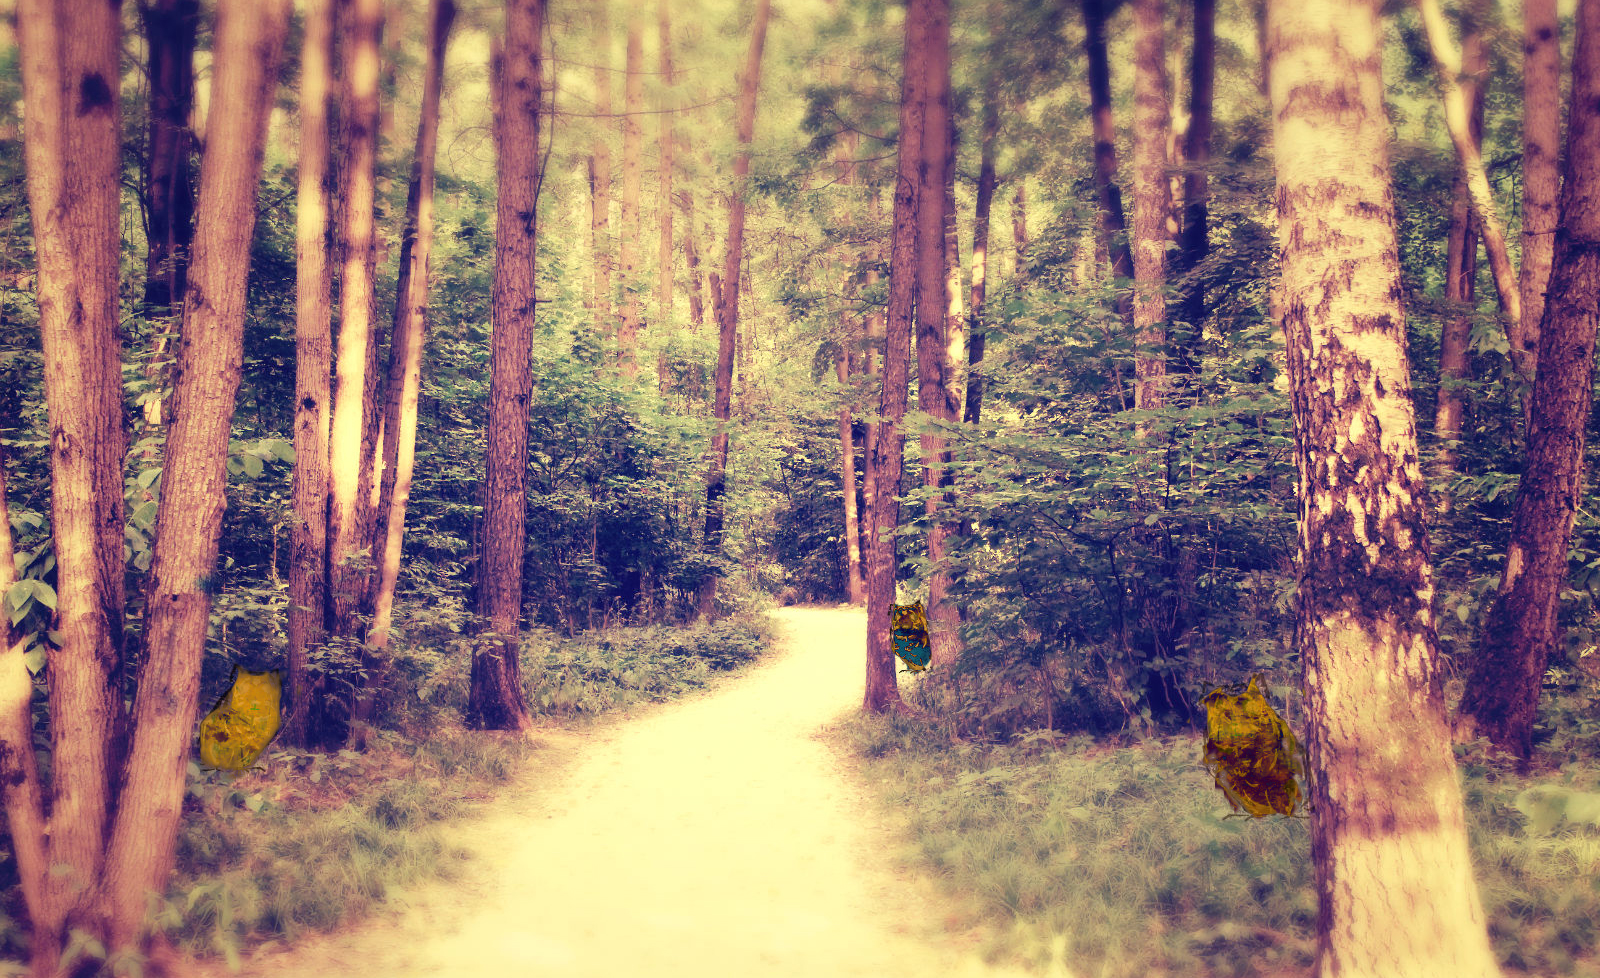
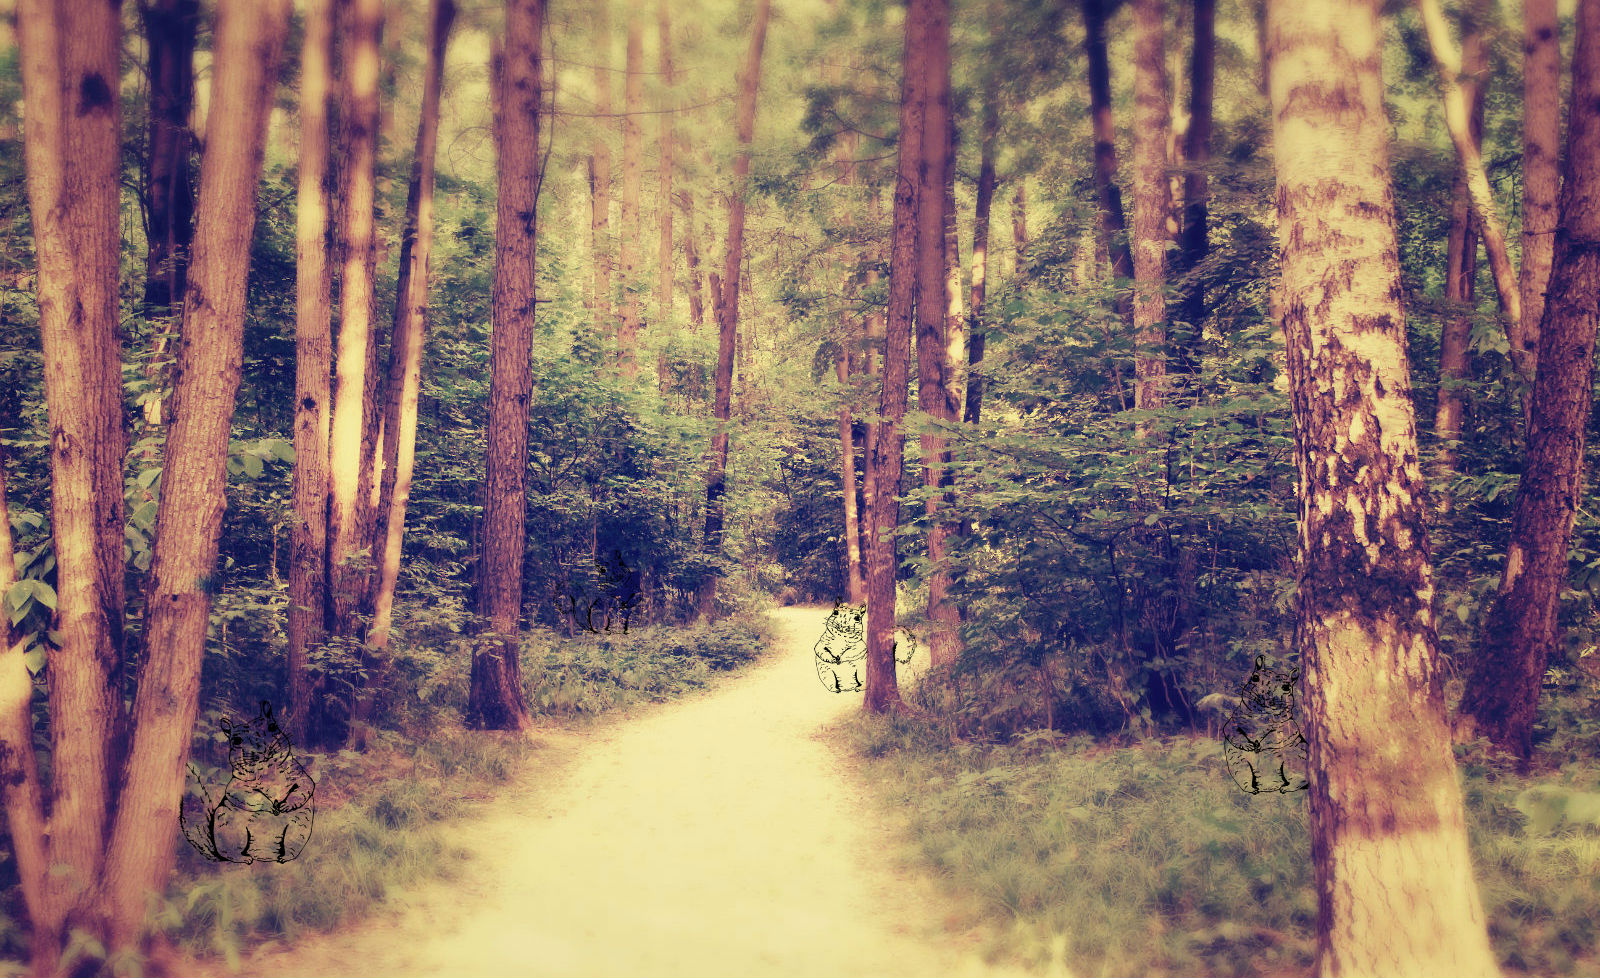
10.08
hire

diff --git a/assets/js/main.js b/assets/js/main.js
@@ -45,20 +45,31 @@ var parameters = {
     },
     circalParametrs:[
         {   
-            MaxShroom:79,
+            MaxShroom:2,
+            MinShroom:2,
             PayForLureSquirrel:20,
-            PayForSquirrel:10
+            PayForSquirrel:10,
+            MushFromSquirrel:0
         },
-        {   Mush:[],
+        {   MaxShroom:79,
+            MinShroom:2,
             MaxShroom:5,
             PayForSquirrel:10
         }
     ],
+    circalCreater:[
+        {   
+            Squirrel:0
+        },
+        {   
+            Squirrel:0
+        },
+    ],
+
     events:{
         eventGather:false,
     }
 }
-
 /*______________________________________________________Настройки параметров___________________________________________________________*/
 var getCircalShrooms = function(circal) {
     $.ajax({
@@ -78,9 +89,10 @@ var basketLength = function(){
     $('#howmany').text(''+length+'');
     return length;
 }
-var mushroomsForClick = function(circMax){
-        var mush = Math.floor(Math.random()*(circMax-2)+2);
-        return mush;
+var mushroomsForClick = function(circMax,circMin){
+        var mush = Math.floor(Math.random()*(circMax-circMin)+circMin);
+        console.log(mush)
+        return mush
     }
 var rand = function(){
     a = Math.random();
@@ -100,7 +112,7 @@ var firstClick = function(){//клик осмотреться
 
         basketLength();
         Gather(circ);
-        getCircalShrooms(circ);
+        //getCircalShrooms(circ);
     });
 }
 
@@ -128,16 +140,19 @@ var showGather = {// визуальное отображение сбора гр
         parameters.interface.forms.progressbar.hide();
         parameters.interface.forms.progressbar.removeAttr('style');
 
-        FillBasket(circ);
+        FillBasket(circ,'gamer');
         if (parameters.events.eventGather === true) TryMush_LureSquirrel(circ);
     }
 }
-var FillBasket = function(circ){
-    var Shroom = mushroomsForClick(parameters.circalParametrs[circ].MaxShroom);
-
+var FillBasket = function(circ,subject){
+    if (subject=='gamer'){
+        var Shroom = mushroomsForClick(parameters.circalParametrs[circ].MaxShroom,parameters.circalParametrs[circ].MinShroom)*parameters.hour;
+        var count = Shroom}
+    if (subject=='squirrel'){
+        var count = parameters.circalParametrs[0].MushFromSquirrel}
     switch (circ){
         case 0: 
-            for(i=0;i<Shroom;i++){
+            for(i=0;i<count;i++){
                 var a = rand();
                 switch (true){
                     case a < 0.5: parameters.basket.mushrooms[0].push(parameters.SetShrooms[circ][0])
@@ -154,12 +169,16 @@ var FillBasket = function(circ){
                 }
             }
         break
+        case 1: 
+            console.log('iuiuououoiu')
+            
+        break
     }
     basketLength();
-    console.log(parameters.basket.mushrooms, parameters.myShrooms)
+    //console.log(parameters.basket.mushrooms, parameters.myShrooms)
 }
 var deleteRandSroom = function(circ,action){
-    var Shroom = Math.floor(Math.random() * basketLength());
+    var Shroom = Math.floor(Math.random() * parameters.basket.mushrooms[circ].length);
     switch (circ){
         case 0:  
             var fateMush = parameters.basket.mushrooms[0].splice(Shroom,1);
@@ -174,11 +193,12 @@ var deleteRandSroom = function(circ,action){
             }
         break
     }
+    basketLength();
     if (action == 'eat') {
         return fateMush;
     }
-    console.log(fateMush)
-    basketLength();
+    //console.log(fateMush)
+    
 }
 var TryMush_LureSquirrel = function(circ){
     parameters.interface.buttons.eat_hireButton.show();
@@ -200,6 +220,7 @@ var LureSquirrel = function(circ){
             parameters.interface.buttons.lureButton.hide();
             parameters.interface.buttons.hireButton.addClass('inline');
 
+            HireCreature(circ);
             for (var i = 0; i< parameters.circalParametrs[0].PayForLureSquirrel; i++) {deleteRandSroom(circ,'lure');}
         }
         else alert('У тебя не хватает грибов');
@@ -210,7 +231,6 @@ var TryMush = function(circ){
         if (parameters.basket.mushrooms[circ].length > 0) {
             currentShroom = deleteRandSroom(circ,'eat');
             Effects(circ,currentShroom);
-            //lifeInForest.giveAndEat.eatAction.MushEffects();
         }
         else{alert('Грибов не осталось')}
     })
@@ -223,11 +243,15 @@ var Effects = function(circ,object){
             switch (object[0].type){
                 case "Можно кушать" :
                     alert('вы съели '+name+'');
-                    parameters.speed = parameters.speed - 500
+                    parameters.circalParametrs[circ].MaxShroom ++;
+                    parameters.circalParametrs[circ].MinShroom++;
                 break
                 case "Не можно кушать":
                     alert('вы съели '+name+'');
-                    parameters.speed = parameters.speed + 10
+                    if( parameters.circalParametrs[circ].MaxShroom>1 &&parameters.circalParametrs[circ].MinShroom>1){
+                        parameters.circalParametrs[circ].MaxShroom--;
+                        parameters.circalParametrs[circ].MinShroom--;
+                    }
                 break
                 case "Весело кушать":
                     alert('вы съели '+name+'');
@@ -242,14 +266,31 @@ var Recognition = function(circ,object){
     var value = parameters.myShrooms[circ][''+name+''].open
     if(value == false) {
         parameters.myShrooms[circ][''+name+''].open = true
-        console.log(value)}
-    else {
-          console.log(d)  
-        }
-    
-
-    //var shroom = parameters.myShrooms[0].
-    //console.log(name,d)
+        //console.log(value)
+    }
 }
+var HireCreature = function(circ){
+    switch (circ){
+        case 0:  
+                var target = parameters.interface.buttons.hireButton
+            target.on('click', function(){
+                if(parameters.basket.mushrooms[circ].length>=parameters.circalParametrs[circ].PayForSquirrel){
+                    parameters.circalParametrs[0].MushFromSquirrel++;
+                    parameters.circalCreater[circ].Squirrel++;
+                    for(i=0;i<parameters.circalParametrs[circ].PayForSquirrel;i++){
+                                deleteRandSroom(circ,'squirrel')
+                            };
+                            parameters.circalParametrs[circ].PayForSquirrel=parameters.circalParametrs[circ].PayForSquirrel+5;
+                
+              }
+                        else { alert('У тебя не хватает грибов')};
+            })
+            .one('click', function(){
+                setInterval(FillBasket, 1000, circ, 'squirrel');
+            })
+        break
+    }
+}
+
 firstClick();
 

diff --git a/assets/styles/style.css b/assets/styles/style.css
@@ -5,7 +5,7 @@ html, body{
     overflow:hidden;
     margin:0;
     padding:0;
-    background-image:url(/images/forest.jpg);
+    background-image:url(/images/forestFun.gif);
     background-repeat:no-repeat;
     background-size: cover;
     }
@@ -25,7 +25,7 @@ html, body{
     
 /*кнопки*/
 
-.buttons{ width:500px;}
+.buttons{ width:100%;}
 .buttons *{ cursor: pointer;}
 .button{ 
     width:200px;
